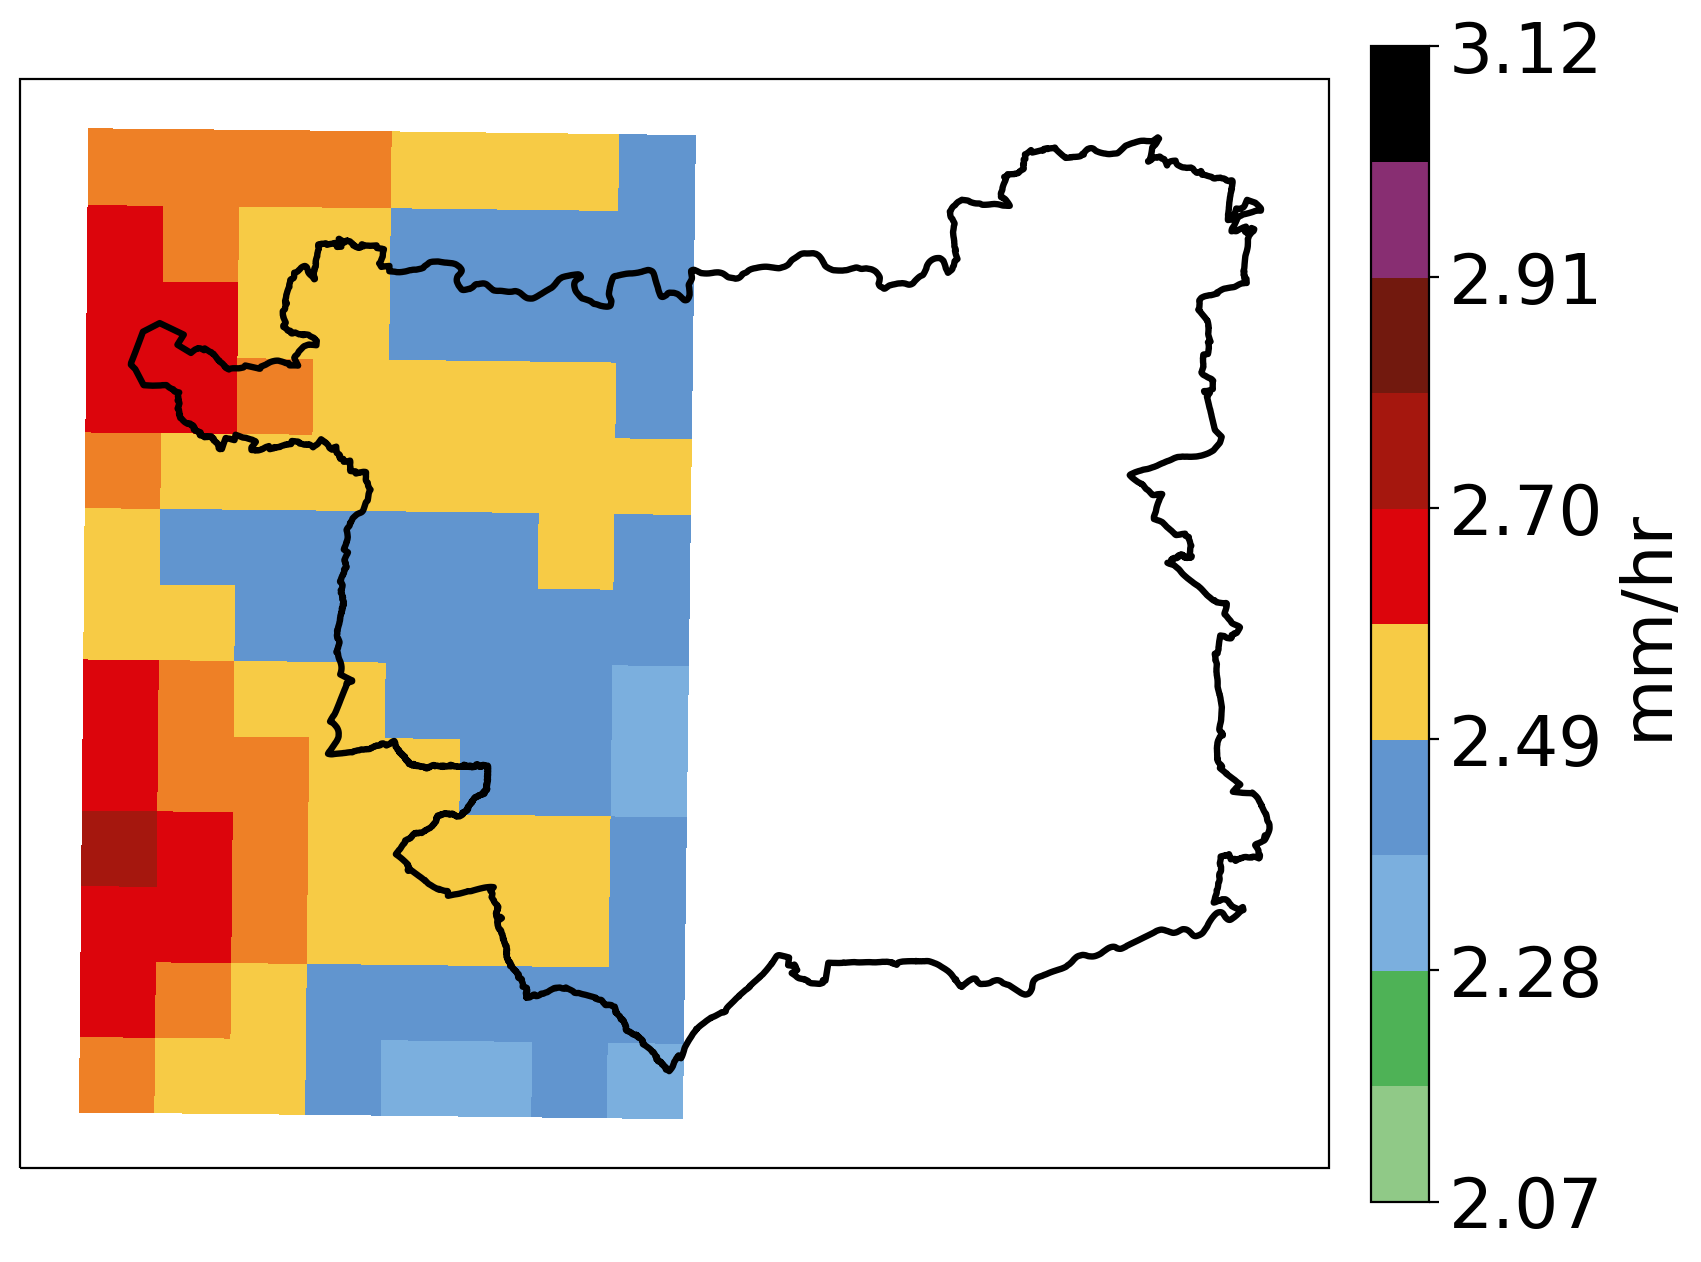
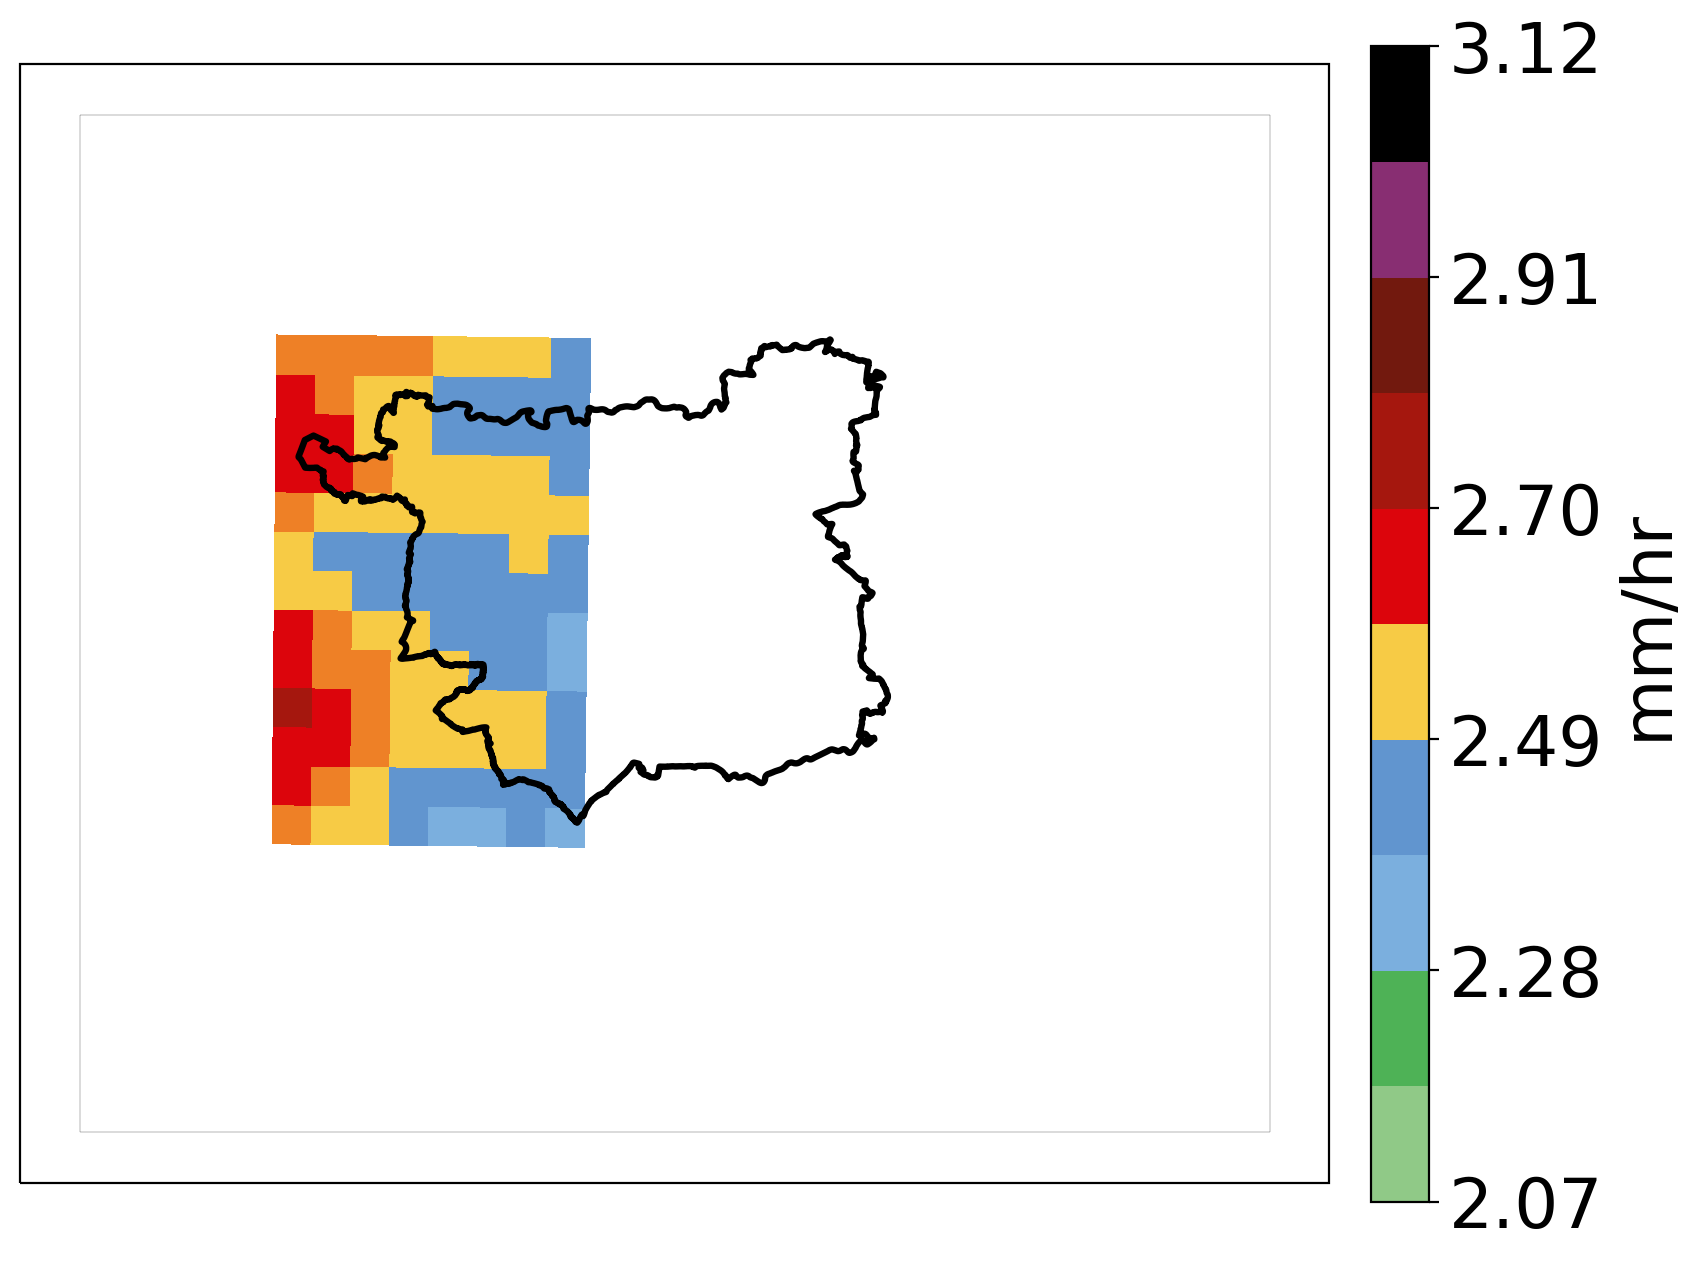
>

diff --git a/RegionalRainfallStats/Model/testing.py b/RegionalRainfallStats/Model/testing.py
@@ -1,3 +1,17 @@
+# create square gdf
+def create_square_outline (required_proj):
+    # Define lats and lons to make box around Leeds
+    lons = [54.06, 54.06, 53.54, 53.54]
+    lats = [-1.99,-0.96, -0.96, -1.99] 
+    
+    # Convert to polygon
+    polygon_geom = Polygon(zip(lats, lons))
+    # Convert to geodataframe
+    leeds_at_centre_narrow_gdf = gpd.GeoDataFrame(index=[0], crs={'init': 'epsg:4326'}, geometry=[polygon_geom])
+    leeds_at_centre_narrow_gdf = leeds_at_centre_narrow_gdf.to_crs(required_proj) 
+
+    return leeds_at_centre_narrow_gdf
+
 run_number =23
 stat = 'jja_p99'
 
@@ -99,7 +113,11 @@ def create_leeds_at_centre_narrow_outline (required_proj, run_number):
     
     elif run_number == 23:
         lons = [53.94, 53.94, 53.68, 53.68]
-        lats = [-1.72,-1.18, -1.18, -1.72]        
+        lats = [-1.72,-1.18, -1.18, -1.72]     
+        
+    elif run_number ==24:    
+        lons = [54.06, 54.06, 53.54, 53.54]
+        lats = [-1.99,-0.96, -0.96, -1.99] 
     
     # Convert to polygon
     polygon_geom = Polygon(zip(lats, lons))
@@ -109,66 +127,69 @@ def create_leeds_at_centre_narrow_outline (required_proj, run_number):
 
     return leeds_at_centre_narrow_gdf
 
-leeds_at_centre_narrow_gdf = create_leeds_at_centre_narrow_outline({'init' :'epsg:3857'}, run_number)
 
-# Load in the cube for the correct statistic and ensemble summary metric 
-stats_cube = iris.load("Outputs/RegionalRainfallStats/NetCDFs/Model/Allhours/EM_Summaries/{}_{}{}.nc".format(stat, em_cube_stat, overlapping))[0]
-  
-# Trim to smaller area
-stats_cube = trim_to_bbox_of_region(stats_cube, leeds_at_centre_narrow_gdf)                       
-       
-  
-# Find the minimum and maximum values to define the spread of the pot
-local_min = stats_cube.data.min()
-local_max = stats_cube.data.max()
-percent_diff = round((local_max-local_min)/((local_max+local_min)/2)*100,2)
-local_min = 2.07
-local_max = 3.12
-contour_levels = np.linspace(local_min, local_max, 11,endpoint = True)
-
-#############################################################################
-# Set up environment for plotting
-#############################################################################
-# Set up plotting colours
-precip_colormap = create_precip_cmap()   
-# Set up a plotting figurge with Web Mercator projection
-proj = ccrs.Mercator.GOOGLE
-fig = plt.figure(figsize=(20,20), dpi=200)
-ax = fig.add_subplot(122, projection = proj)
-   
-# Define number of decimal places to use in the rounding of the colour bar
-# This ensures smaller numbers have decimal places, but not bigger ones.  
-if stats_cube.data.max() >10:
-    n_decimal_places = 0
-elif stats_cube.data.max() < 0.1:
-    n_decimal_places  =3
-else:
-    n_decimal_places =2
+for run_number in [9,10,11,12,13,14,15,16,17,18,19,20,21,22,23, 24]:
+    leeds_at_centre_narrow_gdf = create_leeds_at_centre_narrow_outline({'init' :'epsg:3857'}, run_number)
+    square_gdf = create_square_outline({'init' :'epsg:3857'})
+    # Load in the cube for the correct statistic and ensemble summary metric 
+    stats_cube = iris.load("Outputs/RegionalRainfallStats/NetCDFs/Model/Allhours/EM_Summaries/{}_{}{}.nc".format(stat, em_cube_stat, overlapping))[0]
+      
+    # Trim to smaller area
+    stats_cube = trim_to_bbox_of_region(stats_cube, leeds_at_centre_narrow_gdf)                       
+           
+      
+    # Find the minimum and maximum values to define the spread of the pot
+    local_min = stats_cube.data.min()
+    local_max = stats_cube.data.max()
+    percent_diff = round((local_max-local_min)/((local_max+local_min)/2)*100,2)
+    local_min = 2.07
+    local_max = 3.12
+    contour_levels = np.linspace(local_min, local_max, 11,endpoint = True)
     
-#############################################################################
-# Plot
-#############################################################################
-mesh = iplt.pcolormesh(stats_cube, cmap = precip_colormap, vmin = local_min, vmax = local_max)
-     
-# Add regional outlines, depending on which region is being plotted
-leeds_gdf.plot(ax=ax, edgecolor='black', color='none', linewidth=2.3)
-cb1 = plt.colorbar(mesh, ax=ax, fraction=0.041, pad=0.03, boundaries = contour_levels)
-
-cb1.ax.tick_params(labelsize=25)
-if stat != 'whprop':
-    cb1.set_label('mm/hr', size = 25)
-elif stat == 'whprop':
-    cb1.set_label('%', size = 25)
-cb1.ax.set_yticklabels(["{:.{}f}".format(i, n_decimal_places) for i in cb1.get_ticks()])   
-
-print(percent_diff)
-
-num_cells = stats_cube.shape[0] * stats_cube.shape[1] 
-print(num_cells)
-
-# Save files
-filename = "Scripts/UKCP18/RegionalRainfallStats/Model/Figs/Testing_{}_{}_{}%_{}cells.png".format(stat, run_number, percent_diff, num_cells)
-fig.savefig(filename, bbox_inches = 'tight')
-  
+    #############################################################################
+    # Set up environment for plotting
+    #############################################################################
+    # Set up plotting colours
+    precip_colormap = create_precip_cmap()   
+    # Set up a plotting figurge with Web Mercator projection
+    proj = ccrs.Mercator.GOOGLE
+    fig = plt.figure(figsize=(20,20), dpi=200)
+    ax = fig.add_subplot(122, projection = proj)
+       
+    # Define number of decimal places to use in the rounding of the colour bar
+    # This ensures smaller numbers have decimal places, but not bigger ones.  
+    if stats_cube.data.max() >10:
+        n_decimal_places = 0
+    elif stats_cube.data.max() < 0.1:
+        n_decimal_places  =3
+    else:
+        n_decimal_places =2
+        
+    #############################################################################
+    # Plot
+    #############################################################################
+    mesh = iplt.pcolormesh(stats_cube, cmap = precip_colormap, vmin = local_min, vmax = local_max)
+         
+    # Add regional outlines, depending on which region is being plotted
+    square_gdf.plot(ax=ax, edgecolor='black', color='none', linewidth=0.1)
+    leeds_gdf.plot(ax=ax, edgecolor='black', color='none', linewidth=2.3)
+    cb1 = plt.colorbar(mesh, ax=ax, fraction=0.041, pad=0.03, boundaries = contour_levels)
+    
+    cb1.ax.tick_params(labelsize=25)
+    if stat != 'whprop':
+        cb1.set_label('mm/hr', size = 25)
+    elif stat == 'whprop':
+        cb1.set_label('%', size = 25)
+    cb1.ax.set_yticklabels(["{:.{}f}".format(i, n_decimal_places) for i in cb1.get_ticks()])   
+    
+    print(percent_diff)
+    
+    num_cells = stats_cube.shape[0] * stats_cube.shape[1] 
+    print(num_cells)
+    
+    # Save files
+    filename = "Scripts/UKCP18/RegionalRainfallStats/Model/Figs/Testing_{}_{}_{}%_{}cells.png".format(stat, run_number, percent_diff, num_cells)
+    fig.savefig(filename, bbox_inches = 'tight')
+      
 
 
